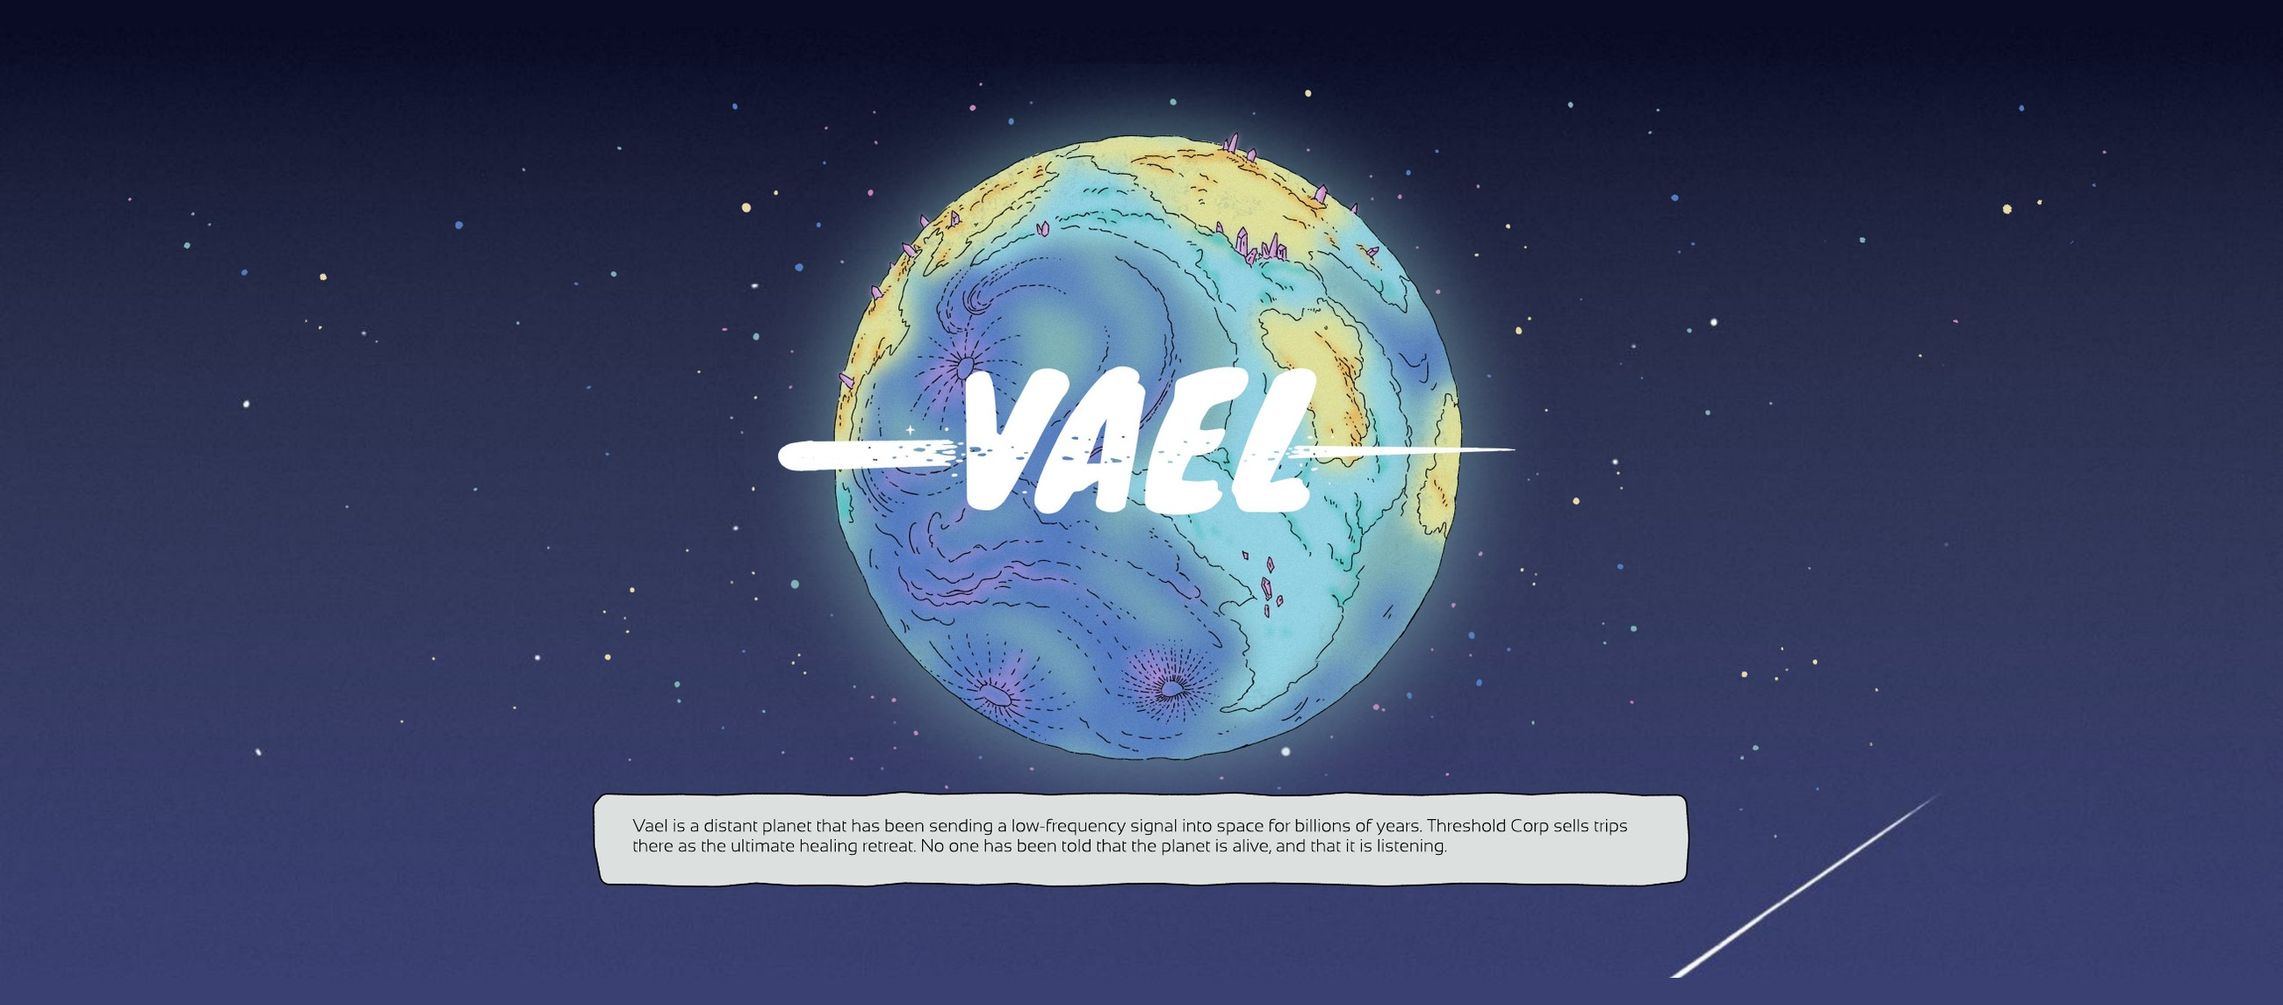
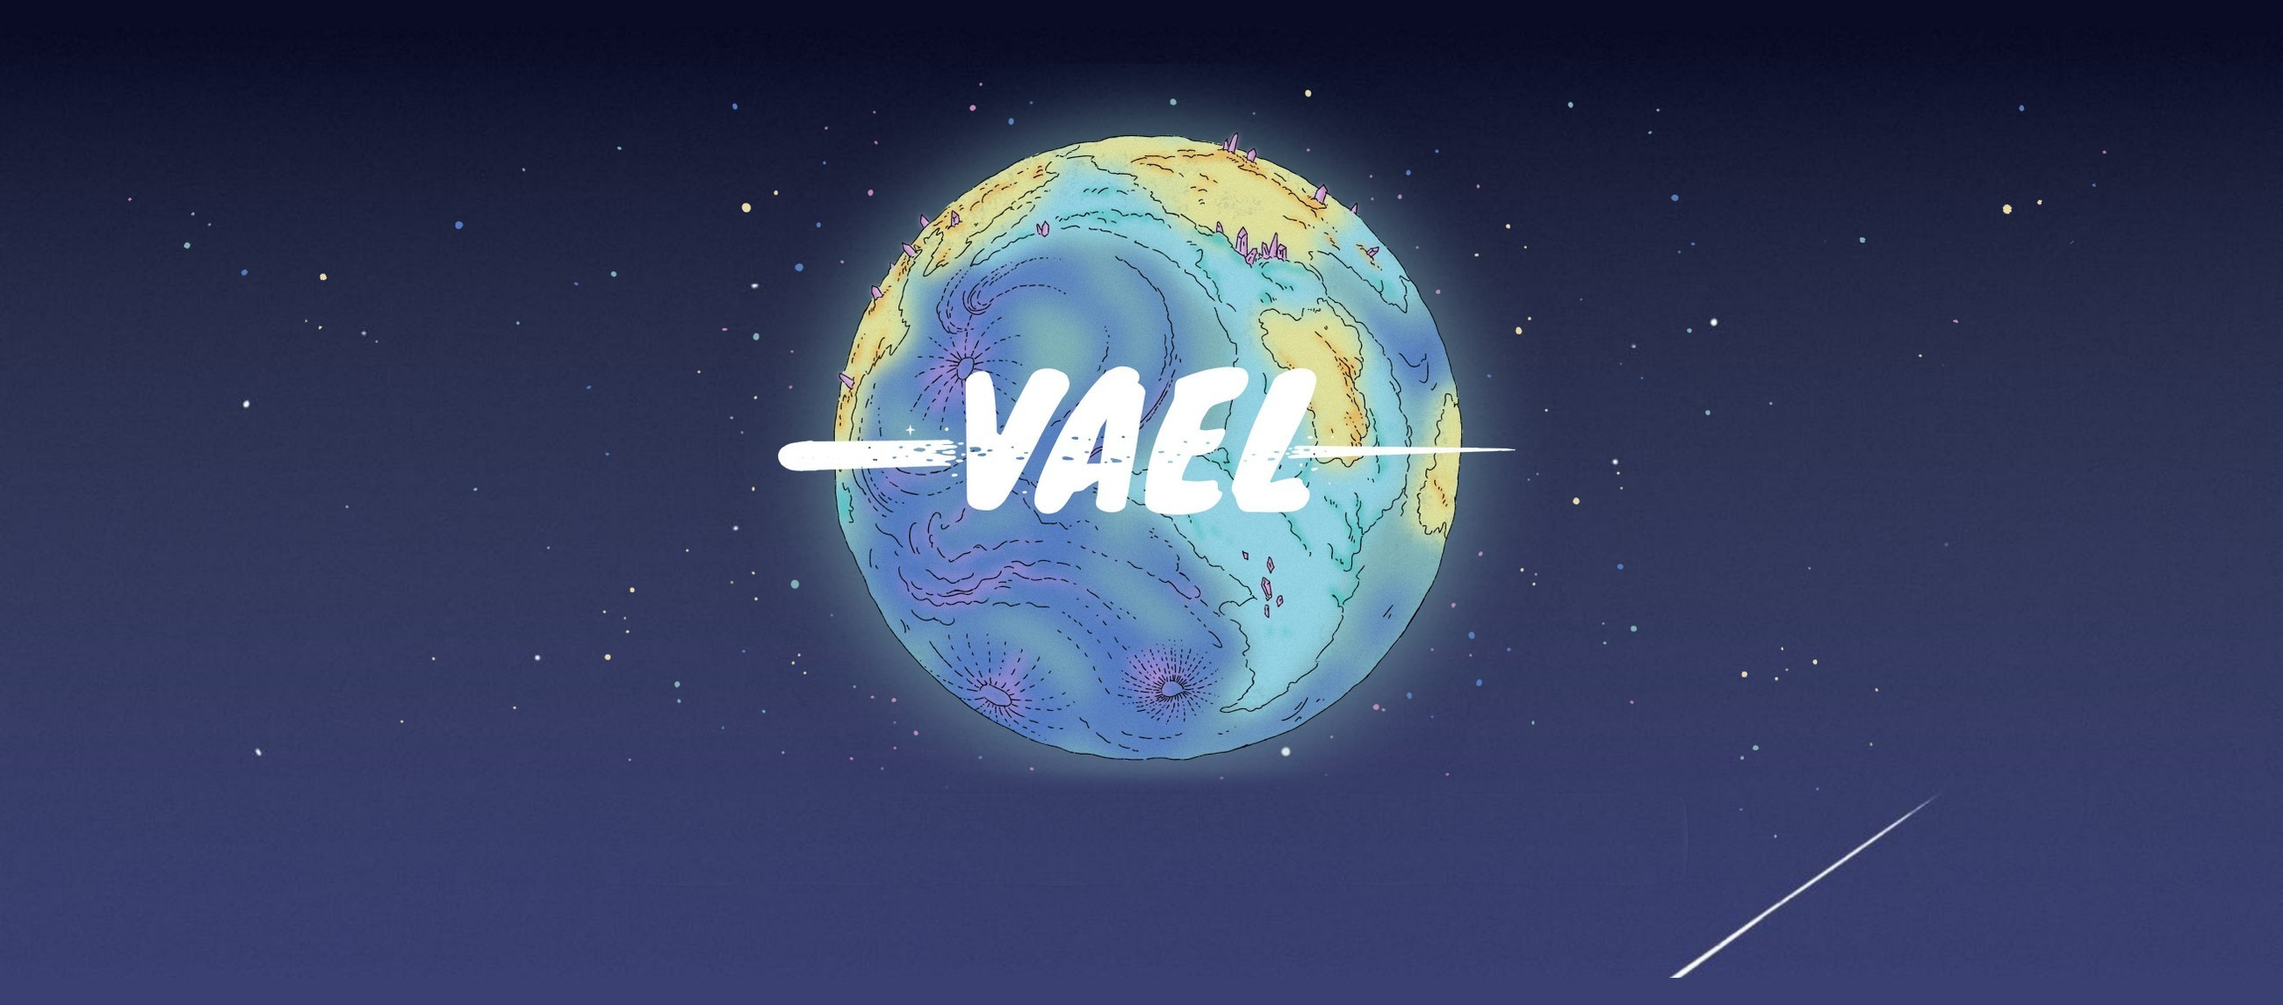
Hero: remove Vael text box, give sword angel slide a black-to-white gradient backdrop
Claude-Session: https://claude.ai/code/session_015KesnonxC7fF4xmg6wiH4j

Changed region(s): [[0.2492, 0.7642, 0.7477, 0.8865]]

diff --git a/index.html b/index.html
@@ -304,7 +304,7 @@ a{color:#0F1E6F;text-decoration:none}a:hover{color:#1D6B8A}
 </div>
 
 <script>
-var ITEMS=[{"title": "The Last Angel", "cat": "Book Illustration", "group": "Books & Comics", "imgs": ["img/angel1.jpg", "img/angel2.jpg", "img/angel3.jpg", "img/angel4.jpg"], "alt": "The Last Angel — grayscale book spread of a fallen angel by a reflective, iridescent river", "desc": "An angel’s descent unfolds through moments of rupture and reflection, tracing the fragile boundary between purity and ruin.", "link": "the-last-angel.html"}, {"title": "Shadow Shop", "cat": "Book Cover", "group": "Books & Comics", "imgs": ["img/shadowshop.jpg"], "alt": "Shadow Shop book cover — a figure steps toward a glowing shop door as stars burst out, framed in gold baroque ornament", "desc": "[Add a short description]", "link": ""}, {"title": "[TITLE]", "cat": "Illustration", "group": "Illustration", "imgs": ["img/dogpark-full.jpg"], "alt": "Yellow and white bird’s-eye illustration of a dog park surrounded by a café, flower shop and houses, full of dogs, cats and surprised neighbors", "desc": "[Add a short description]", "link": ""}, {"title": "Life Clock", "cat": "Illustration · Animation", "group": "Illustration", "imgs": ["img/lifeclock.jpg"], "vid": "img/lifeclock.mp4", "alt": "Life Clock — a round clock face filled with glowing blue animal skeletons, its ornate hands turning", "desc": "[Add a short description]", "link": ""}, {"title": "25 Kinds of Beetle", "cat": "Pen Illustration", "group": "Illustration", "imgs": ["img/beetles.jpg"], "alt": "25 Kinds of Beetle — stippled pen drawings of twenty-five beetles on a blue background", "desc": "[Add a short description]", "link": ""}, {"title": "The Moment Before Falling", "cat": "Illustration", "group": "Illustration", "imgs": ["img/falling.jpg"], "alt": "The Moment Before Falling — intricate pen drawing of a figure reaching upward through clouds and thorns", "desc": "A delicate tension between ascent and ruin, where the act of reaching becomes the beginning of change.", "link": ""}, {"title": "Explorer", "cat": "Children’s Series", "group": "Children’s", "imgs": ["img/explorer1.jpg", "img/explorer2.jpg", "img/explorer3.jpg"], "alt": "Explorer — a girl with a map stands before a glowing waterfall full of butterflies", "desc": "A young explorer moves between reality and imagination, guided by small moments of curiosity and wonder.", "link": ""}, {"title": "Hushi", "cat": "Wordless Comic", "group": "Books & Comics", "imgs": ["img/hushi-cover.jpg", "img/hushi-spread.jpg"], "alt": "Hushi — green comic cover with hand-lettered title, centipede and beetle", "desc": "A wordless comic.", "link": ""}, {"title": "Where Bones Become Breath", "cat": "Illustration", "group": "Illustration", "imgs": ["img/bones.jpg"], "alt": "Where Bones Become Breath — a figure drifting among skeletal fish in deep blue water", "desc": "A quiet journey of transformation, where life drifts between memory, body, and time beneath the water.", "link": ""}, {"title": "Where the Forest Breathes", "cat": "Illustration", "group": "Illustration", "imgs": ["img/forest.jpg"], "alt": "Where the Forest Breathes — a wide panoramic forest scene in soft greens and gold light", "desc": "A quiet moment where light, memory, and nature gently come together in a dreamlike forest.", "link": ""}, {"title": "Hymenocallis Seed Packet", "cat": "Packaging", "group": "Design & Product", "imgs": ["img/seed.jpg"], "alt": "Seed packet design with a fairy among white spider lilies on violet blue", "desc": "A decorative seed packaging design that blends botanical illustration with a soft, fairy-tale aesthetic.", "link": ""}, {"title": "The Moon and Sixpence", "cat": "Comic", "group": "Books & Comics", "imgs": ["img/moon.jpg"], "alt": "The Moon and Sixpence — black and white comic page with a lion and hand-lettered text", "desc": "[Add a short description]", "link": ""}, {"title": "Ocean Creature", "cat": "Colored Pencil", "group": "Illustration", "imgs": ["img/ocean.jpg"], "alt": "Ocean Creature — a detailed sea slug drawn in green, gold and gray", "desc": "[Add a short description]", "link": ""}, {"title": "2025 Calendar", "cat": "Product", "group": "Design & Product", "imgs": ["img/calendar1.jpg", "img/calendar2.jpg"], "alt": "2025 calendar cover with a white snake coiled in flowers on soft pink", "desc": "[Add a short description]", "link": ""}, {"title": "Gazing", "cat": "Sticker Sheet", "group": "Design & Product", "imgs": ["img/sticker-gazing.jpg"], "alt": "Gazing sticker sheet with a moth, papaya, heart and figures", "desc": "[Add a short description]", "link": ""}, {"title": "Buddha Statue", "cat": "Study", "group": "Illustration", "imgs": ["img/buddha1.jpg", "img/buddha2.jpg"], "alt": "Stippled study of a seated wooden statue in warm browns", "desc": "[Add a short description]", "link": ""}, {"title": "Others", "cat": "Sticker Sheet", "group": "Design & Product", "imgs": ["img/sticker-others.jpg"], "alt": "Others sticker sheet with purple figures, flowers and Chinese lettering", "desc": "[Add a short description]", "link": ""}, {"title": "Vael", "cat": "Key Art", "imgs": ["img/vael1.jpg"], "alt": "Vael, a distant planet glowing in blue and gold above a starfield, with the title VAEL", "desc": "Vael is a distant planet that has been sending a low-frequency signal into space for billions of years. Threshold Corp sells trips there as the ultimate healing retreat. No one has been told that the planet is alive, and that it is listening.", "link": ""}, {"title": "Game Design Overview", "cat": "Design Document", "imgs": ["img/vael10.jpg"], "alt": "Game design document page with logline, world, characters and gameplay", "desc": "The full design overview: logline, world, design purpose, art direction, characters, gameplay and the core question — would you give up part of yourself to escape pain, or accept all of yourself, scars included, to find real peace?", "link": ""}, {"title": "Minerals", "cat": "Prop Design", "imgs": ["img/vael9.jpg"], "alt": "Pink and amber crystal formations and mineral samples", "desc": "Vael’s crystals form the planet’s bones and nerves. Threshold mines them as precious resources, unaware that every piece cut away is a wound to a living body.", "link": ""}, {"title": "Lumoryn", "cat": "Creature Design", "imgs": ["img/vael2.jpg"], "alt": "Three stages of a giant green insect creature: Rooted Cocoon, Shell Sphere and Pulse Walker", "desc": "Vael’s giant insects are the planet’s eyes. The Rooted Cocoon anchors into the ground through root-like legs, drawing signals from Vael’s nervous system as it grows. The Pulse Walker carries those signals through the flower-like organs on its head, and the Shell Sphere curls into a sealed ball when Vael senses a threat.", "link": ""}, {"title": "Flora", "cat": "Plant Design", "imgs": ["img/vael8.jpg"], "alt": "A lineup of alien plants: Veil Lily, Weeping Giant, Lantern Chalice, Pillar Palm and Spire Pod", "desc": "Vael’s plants fit no category from Earth. Each one is an extension of the planet’s consciousness, sensing and recording every living thing that passes through — from the Veil Lily that opens toward anyone who comes near to the Spire Pod that releases the calming spores filling Vael’s air.", "link": ""}, {"title": "Surveying the Forest", "cat": "Environment", "imgs": ["img/vael7.jpg"], "alt": "Shu sends drones over a forest of towering glowing plants with sensor posts and orange spore pods", "desc": "On Vael’s surface, Shu sends drones over a forest of towering, glowing plants to scan them and collect spore samples. She thinks she is studying the plants. But here every plant is part of Vael, and it is studying her too.", "link": ""}, {"title": "Exploring", "cat": "Environment", "imgs": ["img/vael3.jpg"], "alt": "Shu walks into a purple cave lit by glowing crystals", "desc": "Following Morse’s log, Shu steps into the cave he never dared to enter, where glowing crystals light the way into Vael’s nervous system.", "link": ""}, {"title": "Shu", "cat": "Character Design", "imgs": ["img/vael5.jpg"], "alt": "Turnaround of Shu in a lavender suit with swirling patterns", "desc": "A one-of-a-kind suit made for the protagonist alone. Its flowing swirls echo Vael’s living forms, and the soft lavender sets her apart from the white uniforms of Threshold staff.", "link": ""}, {"title": "TFS-01 Surveyor", "cat": "Costume & Props", "imgs": ["img/vael6.jpg"], "alt": "Turnaround of a white and blue survey suit with helmet and backpack details", "desc": "Standard-issue field gear for Threshold Corp staff sent to survey Vael’s surface and caves. Sealed layers keep the wearer lucid against airborne spores and the planet’s low-frequency hum, while the matte white shell and blue lines echo the company ship.", "link": ""}, {"title": "The Threshold Vessel", "cat": "Vehicle Design", "imgs": ["img/vael4.jpg"], "alt": "Exterior, interior cutaway and cockpit of a sleek white passenger spaceship", "desc": "Threshold Corp’s passenger ship, built to carry wealthy clients to Vael. The matte white ceramic hull with fine glowing lines is designed to look more like a work of art than a vehicle. Once the ship lands, pale root-like threads slowly grow through the floor, and it quietly becomes part of the planet’s body.", "link": ""}], SLIDES=[{"img": "img/bones.jpg", "title": "Where Bones Become Breath", "cat": "Digital Illustration", "alt": "Where Bones Become Breath — a girl swims through deep blue water among glowing fish and drifting fish skeletons"}, {"img": "img/vael-cover.jpg", "title": "Vael", "cat": "Game Design · Concept Art", "alt": "Vael — cover art of a glowing blue and gold planet in a starry sky"}, {"img": "img/angel2.jpg", "title": "The Last Angel", "cat": "Book Illustration", "alt": "The Last Angel — an angel seen from behind raises a golden-hilted sword, wings spread and light flaring"}, {"img": "img/forest.jpg", "title": "Where the Forest Breathes", "cat": "Illustration", "alt": "Where the Forest Breathes — a long panoramic forest illustration"}], NW=17;
+var ITEMS=[{"title": "The Last Angel", "cat": "Book Illustration", "group": "Books & Comics", "imgs": ["img/angel1.jpg", "img/angel2.jpg", "img/angel3.jpg", "img/angel4.jpg"], "alt": "The Last Angel — grayscale book spread of a fallen angel by a reflective, iridescent river", "desc": "An angel’s descent unfolds through moments of rupture and reflection, tracing the fragile boundary between purity and ruin.", "link": "the-last-angel.html"}, {"title": "Shadow Shop", "cat": "Book Cover", "group": "Books & Comics", "imgs": ["img/shadowshop.jpg"], "alt": "Shadow Shop book cover — a figure steps toward a glowing shop door as stars burst out, framed in gold baroque ornament", "desc": "[Add a short description]", "link": ""}, {"title": "[TITLE]", "cat": "Illustration", "group": "Illustration", "imgs": ["img/dogpark-full.jpg"], "alt": "Yellow and white bird’s-eye illustration of a dog park surrounded by a café, flower shop and houses, full of dogs, cats and surprised neighbors", "desc": "[Add a short description]", "link": ""}, {"title": "Life Clock", "cat": "Illustration · Animation", "group": "Illustration", "imgs": ["img/lifeclock.jpg"], "vid": "img/lifeclock.mp4", "alt": "Life Clock — a round clock face filled with glowing blue animal skeletons, its ornate hands turning", "desc": "[Add a short description]", "link": ""}, {"title": "25 Kinds of Beetle", "cat": "Pen Illustration", "group": "Illustration", "imgs": ["img/beetles.jpg"], "alt": "25 Kinds of Beetle — stippled pen drawings of twenty-five beetles on a blue background", "desc": "[Add a short description]", "link": ""}, {"title": "The Moment Before Falling", "cat": "Illustration", "group": "Illustration", "imgs": ["img/falling.jpg"], "alt": "The Moment Before Falling — intricate pen drawing of a figure reaching upward through clouds and thorns", "desc": "A delicate tension between ascent and ruin, where the act of reaching becomes the beginning of change.", "link": ""}, {"title": "Explorer", "cat": "Children’s Series", "group": "Children’s", "imgs": ["img/explorer1.jpg", "img/explorer2.jpg", "img/explorer3.jpg"], "alt": "Explorer — a girl with a map stands before a glowing waterfall full of butterflies", "desc": "A young explorer moves between reality and imagination, guided by small moments of curiosity and wonder.", "link": ""}, {"title": "Hushi", "cat": "Wordless Comic", "group": "Books & Comics", "imgs": ["img/hushi-cover.jpg", "img/hushi-spread.jpg"], "alt": "Hushi — green comic cover with hand-lettered title, centipede and beetle", "desc": "A wordless comic.", "link": ""}, {"title": "Where Bones Become Breath", "cat": "Illustration", "group": "Illustration", "imgs": ["img/bones.jpg"], "alt": "Where Bones Become Breath — a figure drifting among skeletal fish in deep blue water", "desc": "A quiet journey of transformation, where life drifts between memory, body, and time beneath the water.", "link": ""}, {"title": "Where the Forest Breathes", "cat": "Illustration", "group": "Illustration", "imgs": ["img/forest.jpg"], "alt": "Where the Forest Breathes — a wide panoramic forest scene in soft greens and gold light", "desc": "A quiet moment where light, memory, and nature gently come together in a dreamlike forest.", "link": ""}, {"title": "Hymenocallis Seed Packet", "cat": "Packaging", "group": "Design & Product", "imgs": ["img/seed.jpg"], "alt": "Seed packet design with a fairy among white spider lilies on violet blue", "desc": "A decorative seed packaging design that blends botanical illustration with a soft, fairy-tale aesthetic.", "link": ""}, {"title": "The Moon and Sixpence", "cat": "Comic", "group": "Books & Comics", "imgs": ["img/moon.jpg"], "alt": "The Moon and Sixpence — black and white comic page with a lion and hand-lettered text", "desc": "[Add a short description]", "link": ""}, {"title": "Ocean Creature", "cat": "Colored Pencil", "group": "Illustration", "imgs": ["img/ocean.jpg"], "alt": "Ocean Creature — a detailed sea slug drawn in green, gold and gray", "desc": "[Add a short description]", "link": ""}, {"title": "2025 Calendar", "cat": "Product", "group": "Design & Product", "imgs": ["img/calendar1.jpg", "img/calendar2.jpg"], "alt": "2025 calendar cover with a white snake coiled in flowers on soft pink", "desc": "[Add a short description]", "link": ""}, {"title": "Gazing", "cat": "Sticker Sheet", "group": "Design & Product", "imgs": ["img/sticker-gazing.jpg"], "alt": "Gazing sticker sheet with a moth, papaya, heart and figures", "desc": "[Add a short description]", "link": ""}, {"title": "Buddha Statue", "cat": "Study", "group": "Illustration", "imgs": ["img/buddha1.jpg", "img/buddha2.jpg"], "alt": "Stippled study of a seated wooden statue in warm browns", "desc": "[Add a short description]", "link": ""}, {"title": "Others", "cat": "Sticker Sheet", "group": "Design & Product", "imgs": ["img/sticker-others.jpg"], "alt": "Others sticker sheet with purple figures, flowers and Chinese lettering", "desc": "[Add a short description]", "link": ""}, {"title": "Vael", "cat": "Key Art", "imgs": ["img/vael1.jpg"], "alt": "Vael, a distant planet glowing in blue and gold above a starfield, with the title VAEL", "desc": "Vael is a distant planet that has been sending a low-frequency signal into space for billions of years. Threshold Corp sells trips there as the ultimate healing retreat. No one has been told that the planet is alive, and that it is listening.", "link": ""}, {"title": "Game Design Overview", "cat": "Design Document", "imgs": ["img/vael10.jpg"], "alt": "Game design document page with logline, world, characters and gameplay", "desc": "The full design overview: logline, world, design purpose, art direction, characters, gameplay and the core question — would you give up part of yourself to escape pain, or accept all of yourself, scars included, to find real peace?", "link": ""}, {"title": "Minerals", "cat": "Prop Design", "imgs": ["img/vael9.jpg"], "alt": "Pink and amber crystal formations and mineral samples", "desc": "Vael’s crystals form the planet’s bones and nerves. Threshold mines them as precious resources, unaware that every piece cut away is a wound to a living body.", "link": ""}, {"title": "Lumoryn", "cat": "Creature Design", "imgs": ["img/vael2.jpg"], "alt": "Three stages of a giant green insect creature: Rooted Cocoon, Shell Sphere and Pulse Walker", "desc": "Vael’s giant insects are the planet’s eyes. The Rooted Cocoon anchors into the ground through root-like legs, drawing signals from Vael’s nervous system as it grows. The Pulse Walker carries those signals through the flower-like organs on its head, and the Shell Sphere curls into a sealed ball when Vael senses a threat.", "link": ""}, {"title": "Flora", "cat": "Plant Design", "imgs": ["img/vael8.jpg"], "alt": "A lineup of alien plants: Veil Lily, Weeping Giant, Lantern Chalice, Pillar Palm and Spire Pod", "desc": "Vael’s plants fit no category from Earth. Each one is an extension of the planet’s consciousness, sensing and recording every living thing that passes through — from the Veil Lily that opens toward anyone who comes near to the Spire Pod that releases the calming spores filling Vael’s air.", "link": ""}, {"title": "Surveying the Forest", "cat": "Environment", "imgs": ["img/vael7.jpg"], "alt": "Shu sends drones over a forest of towering glowing plants with sensor posts and orange spore pods", "desc": "On Vael’s surface, Shu sends drones over a forest of towering, glowing plants to scan them and collect spore samples. She thinks she is studying the plants. But here every plant is part of Vael, and it is studying her too.", "link": ""}, {"title": "Exploring", "cat": "Environment", "imgs": ["img/vael3.jpg"], "alt": "Shu walks into a purple cave lit by glowing crystals", "desc": "Following Morse’s log, Shu steps into the cave he never dared to enter, where glowing crystals light the way into Vael’s nervous system.", "link": ""}, {"title": "Shu", "cat": "Character Design", "imgs": ["img/vael5.jpg"], "alt": "Turnaround of Shu in a lavender suit with swirling patterns", "desc": "A one-of-a-kind suit made for the protagonist alone. Its flowing swirls echo Vael’s living forms, and the soft lavender sets her apart from the white uniforms of Threshold staff.", "link": ""}, {"title": "TFS-01 Surveyor", "cat": "Costume & Props", "imgs": ["img/vael6.jpg"], "alt": "Turnaround of a white and blue survey suit with helmet and backpack details", "desc": "Standard-issue field gear for Threshold Corp staff sent to survey Vael’s surface and caves. Sealed layers keep the wearer lucid against airborne spores and the planet’s low-frequency hum, while the matte white shell and blue lines echo the company ship.", "link": ""}, {"title": "The Threshold Vessel", "cat": "Vehicle Design", "imgs": ["img/vael4.jpg"], "alt": "Exterior, interior cutaway and cockpit of a sleek white passenger spaceship", "desc": "Threshold Corp’s passenger ship, built to carry wealthy clients to Vael. The matte white ceramic hull with fine glowing lines is designed to look more like a work of art than a vehicle. Once the ship lands, pale root-like threads slowly grow through the floor, and it quietly becomes part of the planet’s body.", "link": ""}], SLIDES=[{"img": "img/bones.jpg", "title": "Where Bones Become Breath", "cat": "Digital Illustration", "alt": "Where Bones Become Breath — a girl swims through deep blue water among glowing fish and drifting fish skeletons"}, {"img": "img/vael-cover.jpg", "title": "Vael", "cat": "Game Design · Concept Art", "alt": "Vael — cover art of a glowing blue and gold planet in a starry sky"}, {"img": "img/angel-wide.jpg", "title": "The Last Angel", "cat": "Book Illustration", "alt": "The Last Angel — an angel seen from behind raises a golden-hilted sword, wings spread and light flaring"}, {"img": "img/forest.jpg", "title": "Where the Forest Breathes", "cat": "Illustration", "alt": "Where the Forest Breathes — a long panoramic forest illustration"}], NW=17;
 var cards=[].slice.call(document.querySelectorAll('.card'));
 document.querySelectorAll('.pill').forEach(function(b){b.addEventListener('click',function(){
 var f=b.textContent;document.querySelectorAll('.pill').forEach(function(p){p.setAttribute('aria-pressed',p===b?'true':'false')});
